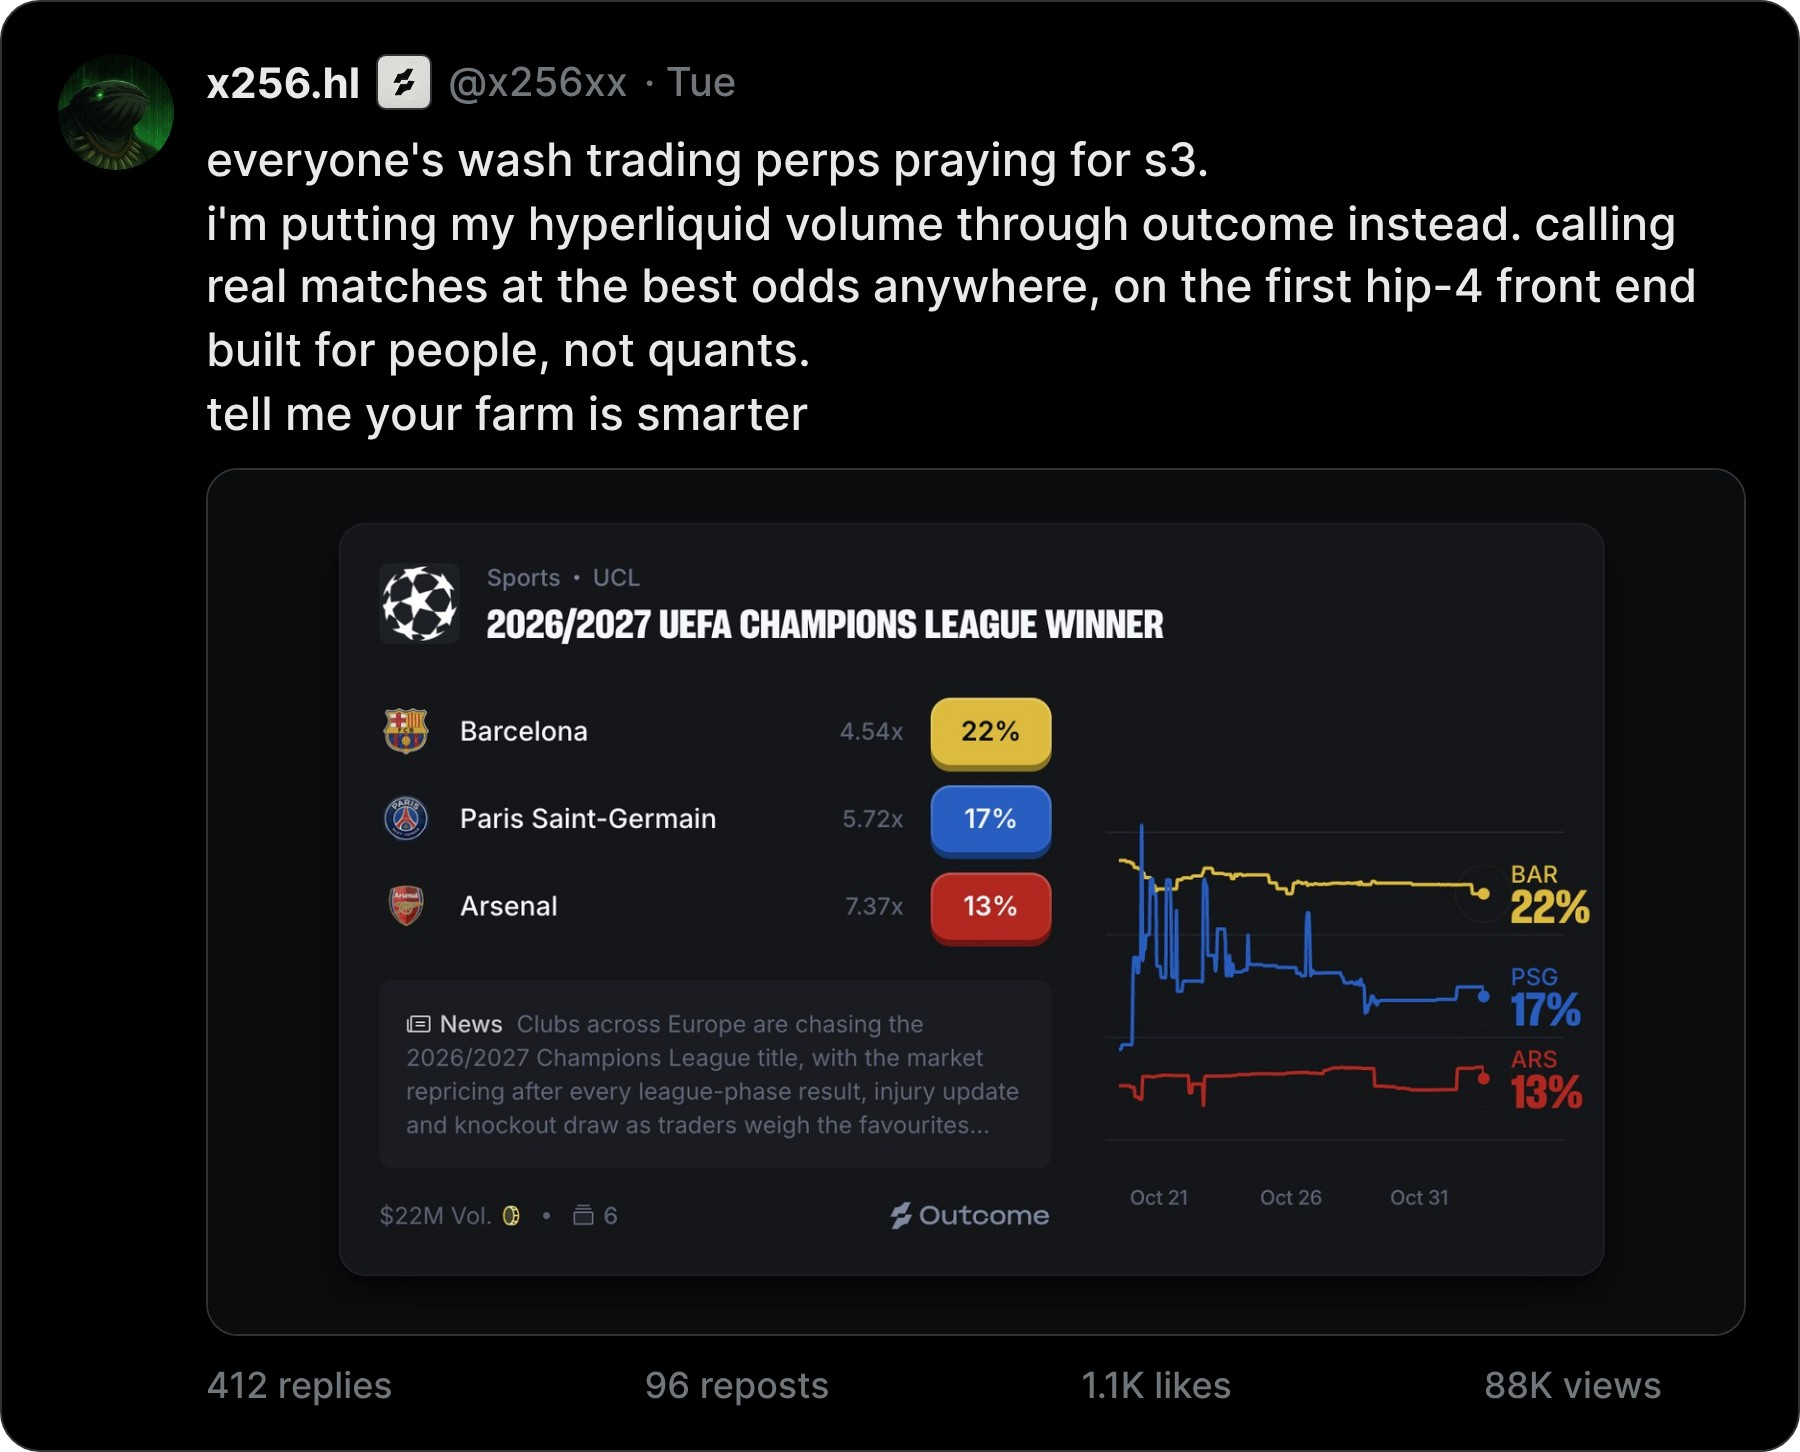
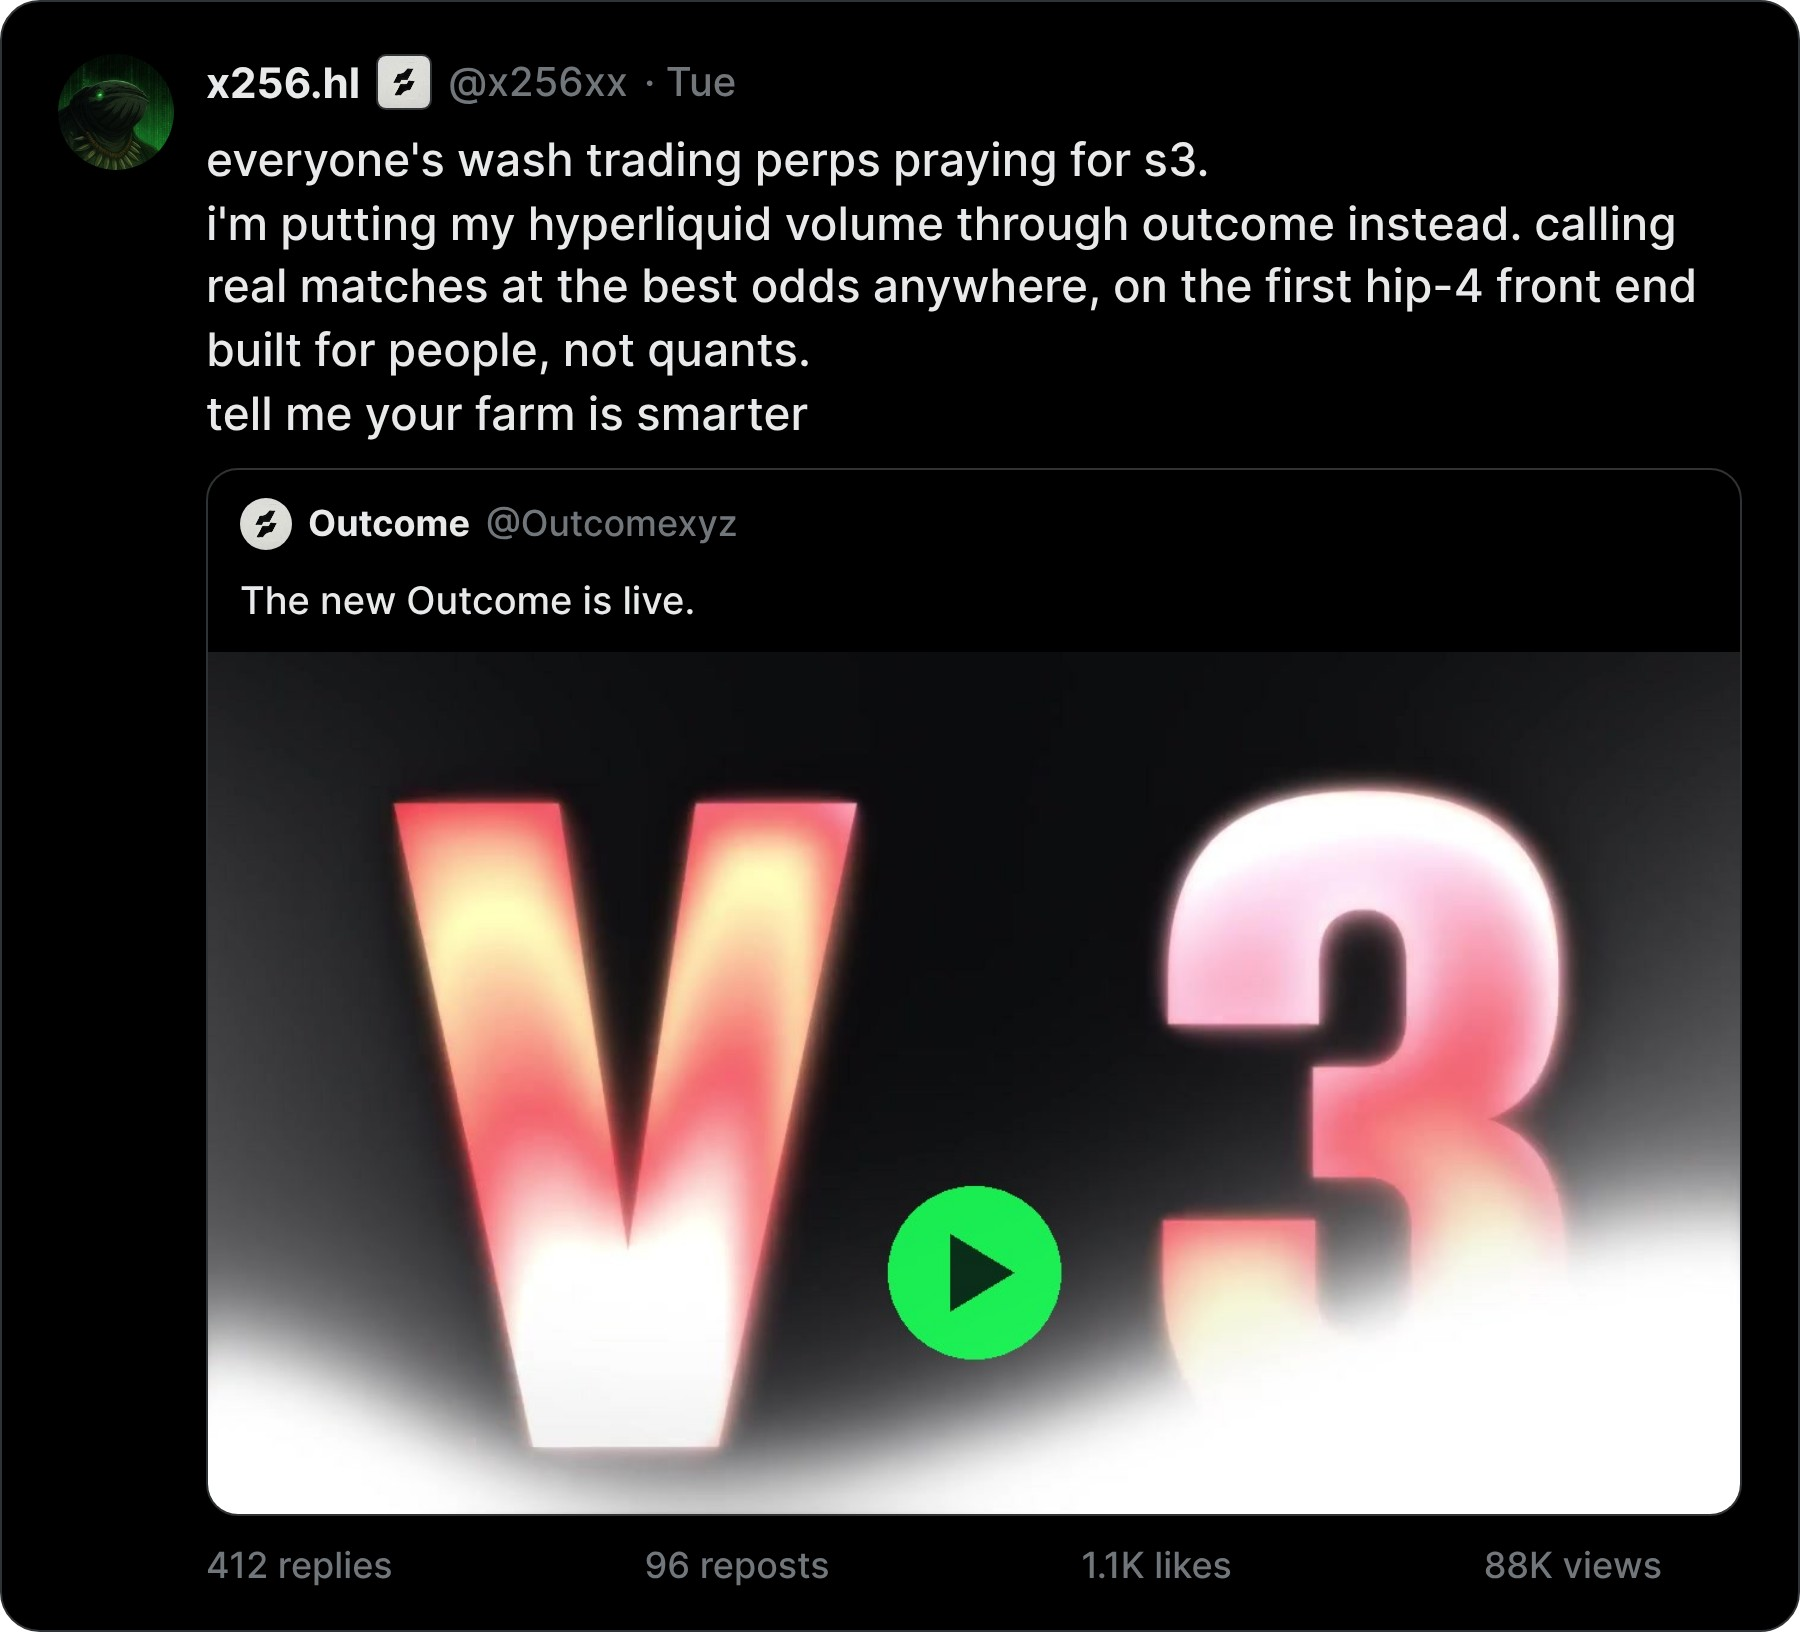
KOL decks: mock post quotes the launch video
Claude-Session: https://claude.ai/code/session_014PU9ujy91VW7m4JZPWrTgt

diff --git a/deck/cryptogorilla/index.html b/deck/cryptogorilla/index.html
@@ -178,7 +178,7 @@ section img[src$="wm.png"]{pointer-events:none}
 </section>
 </div>
 <div class="frame"><section id="say" style="background:#0B0C0F;color:#F5F8FF;font-family:Inter, Arial, sans-serif;padding:128px 128px 160px;display:flex;flex-direction:row;gap:72px;align-items:center">
-<img src="/deck/cryptogorilla/post_v3.jpg" alt="Mock post by Gorilla: everyone’s wash trading perps praying for s3, i’m putting my hyperliquid volume through outcome instead, best odds anywhere on the first hip-4 front end built for people, tell me your farm is smarter" style="width:680px;height:780px;object-fit:contain;border-radius:20px">
+<img src="/deck/cryptogorilla/post_v3.jpg" alt="Mock post by Gorilla quoting Outcome’s launch video post: everyone’s wash trading perps praying for s3, i’m putting my hyperliquid volume through outcome instead, best odds anywhere on the first hip-4 front end built for people, tell me your farm is smarter" style="width:680px;height:780px;object-fit:contain;border-radius:20px">
 <div style="flex:1;display:flex;flex-direction:column;gap:30px">
 <p style="font-size:26px;font-weight:600;letter-spacing:4px;color:#1AFF57">HOW IT SOUNDS</p>
 <h2 style="font-family:'PP Neue Corp Narrow', Impact, sans-serif;font-weight:800;line-height:0.88;text-transform:uppercase;color:#F5F8FF;font-size:104px">Start an argument.</h2>

diff --git a/deck/clementetv_/index.html b/deck/clementetv_/index.html
@@ -178,7 +178,7 @@ section img[src$="wm.png"]{pointer-events:none}
 </section>
 </div>
 <div class="frame"><section id="say" style="background:#0B0C0F;color:#F5F8FF;font-family:Inter, Arial, sans-serif;padding:128px 128px 160px;display:flex;flex-direction:row;gap:72px;align-items:center">
-<img src="/deck/clementetv_/post_v3.jpg" alt="Mock post by Clemente: everyone’s wash trading perps praying for s3, i’m putting my hyperliquid volume through outcome instead, best odds anywhere on the first hip-4 front end built for people, tell me your farm is smarter" style="width:680px;height:780px;object-fit:contain;border-radius:20px">
+<img src="/deck/clementetv_/post_v3.jpg" alt="Mock post by Clemente quoting Outcome’s launch video post: everyone’s wash trading perps praying for s3, i’m putting my hyperliquid volume through outcome instead, best odds anywhere on the first hip-4 front end built for people, tell me your farm is smarter" style="width:680px;height:780px;object-fit:contain;border-radius:20px">
 <div style="flex:1;display:flex;flex-direction:column;gap:30px">
 <p style="font-size:26px;font-weight:600;letter-spacing:4px;color:#1AFF57">HOW IT SOUNDS</p>
 <h2 style="font-family:'PP Neue Corp Narrow', Impact, sans-serif;font-weight:800;line-height:0.88;text-transform:uppercase;color:#F5F8FF;font-size:104px">Start an argument.</h2>

diff --git a/deck/kookcapitalllc/index.html b/deck/kookcapitalllc/index.html
@@ -178,7 +178,7 @@ section img[src$="wm.png"]{pointer-events:none}
 </section>
 </div>
 <div class="frame"><section id="say" style="background:#0B0C0F;color:#F5F8FF;font-family:Inter, Arial, sans-serif;padding:128px 128px 160px;display:flex;flex-direction:row;gap:72px;align-items:center">
-<img src="/deck/kookcapitalllc/post_v3.jpg" alt="Mock post by kook: everyone’s wash trading perps praying for s3, i’m putting my hyperliquid volume through outcome instead, best odds anywhere on the first hip-4 front end built for people, tell me your farm is smarter" style="width:680px;height:780px;object-fit:contain;border-radius:20px">
+<img src="/deck/kookcapitalllc/post_v3.jpg" alt="Mock post by kook quoting Outcome’s launch video post: everyone’s wash trading perps praying for s3, i’m putting my hyperliquid volume through outcome instead, best odds anywhere on the first hip-4 front end built for people, tell me your farm is smarter" style="width:680px;height:780px;object-fit:contain;border-radius:20px">
 <div style="flex:1;display:flex;flex-direction:column;gap:30px">
 <p style="font-size:26px;font-weight:600;letter-spacing:4px;color:#1AFF57">HOW IT SOUNDS</p>
 <h2 style="font-family:'PP Neue Corp Narrow', Impact, sans-serif;font-weight:800;line-height:0.88;text-transform:uppercase;color:#F5F8FF;font-size:104px">Start an argument.</h2>

diff --git a/deck/cookerflips/index.html b/deck/cookerflips/index.html
@@ -178,7 +178,7 @@ section img[src$="wm.png"]{pointer-events:none}
 </section>
 </div>
 <div class="frame"><section id="say" style="background:#0B0C0F;color:#F5F8FF;font-family:Inter, Arial, sans-serif;padding:128px 128px 160px;display:flex;flex-direction:row;gap:72px;align-items:center">
-<img src="/deck/cookerflips/post_v3.jpg" alt="Mock post by Cooker: everyone’s wash trading perps praying for s3, i’m putting my hyperliquid volume through outcome instead, best odds anywhere on the first hip-4 front end built for people, tell me your farm is smarter" style="width:680px;height:780px;object-fit:contain;border-radius:20px">
+<img src="/deck/cookerflips/post_v3.jpg" alt="Mock post by Cooker quoting Outcome’s launch video post: everyone’s wash trading perps praying for s3, i’m putting my hyperliquid volume through outcome instead, best odds anywhere on the first hip-4 front end built for people, tell me your farm is smarter" style="width:680px;height:780px;object-fit:contain;border-radius:20px">
 <div style="flex:1;display:flex;flex-direction:column;gap:30px">
 <p style="font-size:26px;font-weight:600;letter-spacing:4px;color:#1AFF57">HOW IT SOUNDS</p>
 <h2 style="font-family:'PP Neue Corp Narrow', Impact, sans-serif;font-weight:800;line-height:0.88;text-transform:uppercase;color:#F5F8FF;font-size:104px">Start an argument.</h2>

diff --git a/deck/hydraze420/index.html b/deck/hydraze420/index.html
@@ -178,7 +178,7 @@ section img[src$="wm.png"]{pointer-events:none}
 </section>
 </div>
 <div class="frame"><section id="say" style="background:#0B0C0F;color:#F5F8FF;font-family:Inter, Arial, sans-serif;padding:128px 128px 160px;display:flex;flex-direction:row;gap:72px;align-items:center">
-<img src="/deck/hydraze420/post_v3.jpg" alt="Mock post by Hydraze: everyone’s wash trading perps praying for s3, i’m putting my hyperliquid volume through outcome instead, best odds anywhere on the first hip-4 front end built for people, tell me your farm is smarter" style="width:680px;height:780px;object-fit:contain;border-radius:20px">
+<img src="/deck/hydraze420/post_v3.jpg" alt="Mock post by Hydraze quoting Outcome’s launch video post: everyone’s wash trading perps praying for s3, i’m putting my hyperliquid volume through outcome instead, best odds anywhere on the first hip-4 front end built for people, tell me your farm is smarter" style="width:680px;height:780px;object-fit:contain;border-radius:20px">
 <div style="flex:1;display:flex;flex-direction:column;gap:30px">
 <p style="font-size:26px;font-weight:600;letter-spacing:4px;color:#1AFF57">HOW IT SOUNDS</p>
 <h2 style="font-family:'PP Neue Corp Narrow', Impact, sans-serif;font-weight:800;line-height:0.88;text-transform:uppercase;color:#F5F8FF;font-size:104px">Start an argument.</h2>

diff --git a/deck/bagcalls/index.html b/deck/bagcalls/index.html
@@ -178,7 +178,7 @@ section img[src$="wm.png"]{pointer-events:none}
 </section>
 </div>
 <div class="frame"><section id="say" style="background:#0B0C0F;color:#F5F8FF;font-family:Inter, Arial, sans-serif;padding:128px 128px 160px;display:flex;flex-direction:row;gap:72px;align-items:center">
-<img src="/deck/bagcalls/post_v3.jpg" alt="Mock post by BagCalls: everyone’s wash trading perps praying for s3, i’m putting my hyperliquid volume through outcome instead, best odds anywhere on the first hip-4 front end built for people, tell me your farm is smarter" style="width:680px;height:780px;object-fit:contain;border-radius:20px">
+<img src="/deck/bagcalls/post_v3.jpg" alt="Mock post by BagCalls quoting Outcome’s launch video post: everyone’s wash trading perps praying for s3, i’m putting my hyperliquid volume through outcome instead, best odds anywhere on the first hip-4 front end built for people, tell me your farm is smarter" style="width:680px;height:780px;object-fit:contain;border-radius:20px">
 <div style="flex:1;display:flex;flex-direction:column;gap:30px">
 <p style="font-size:26px;font-weight:600;letter-spacing:4px;color:#1AFF57">HOW IT SOUNDS</p>
 <h2 style="font-family:'PP Neue Corp Narrow', Impact, sans-serif;font-weight:800;line-height:0.88;text-transform:uppercase;color:#F5F8FF;font-size:104px">Start an argument.</h2>

diff --git a/deck/piovincenzo_/index.html b/deck/piovincenzo_/index.html
@@ -178,7 +178,7 @@ section img[src$="wm.png"]{pointer-events:none}
 </section>
 </div>
 <div class="frame"><section id="say" style="background:#0B0C0F;color:#F5F8FF;font-family:Inter, Arial, sans-serif;padding:128px 128px 160px;display:flex;flex-direction:row;gap:72px;align-items:center">
-<img src="/deck/piovincenzo_/post_v3.jpg" alt="Mock post by Pio: everyone’s wash trading perps praying for s3, i’m putting my hyperliquid volume through outcome instead, best odds anywhere on the first hip-4 front end built for people, tell me your farm is smarter" style="width:680px;height:780px;object-fit:contain;border-radius:20px">
+<img src="/deck/piovincenzo_/post_v3.jpg" alt="Mock post by Pio quoting Outcome’s launch video post: everyone’s wash trading perps praying for s3, i’m putting my hyperliquid volume through outcome instead, best odds anywhere on the first hip-4 front end built for people, tell me your farm is smarter" style="width:680px;height:780px;object-fit:contain;border-radius:20px">
 <div style="flex:1;display:flex;flex-direction:column;gap:30px">
 <p style="font-size:26px;font-weight:600;letter-spacing:4px;color:#1AFF57">HOW IT SOUNDS</p>
 <h2 style="font-family:'PP Neue Corp Narrow', Impact, sans-serif;font-weight:800;line-height:0.88;text-transform:uppercase;color:#F5F8FF;font-size:104px">Start an argument.</h2>

diff --git a/deck/ryandcrypto/index.html b/deck/ryandcrypto/index.html
@@ -178,7 +178,7 @@ section img[src$="wm.png"]{pointer-events:none}
 </section>
 </div>
 <div class="frame"><section id="say" style="background:#0B0C0F;color:#F5F8FF;font-family:Inter, Arial, sans-serif;padding:128px 128px 160px;display:flex;flex-direction:row;gap:72px;align-items:center">
-<img src="/deck/ryandcrypto/post_v3.jpg" alt="Mock post by Ryan: everyone’s wash trading perps praying for s3, i’m putting my hyperliquid volume through outcome instead, best odds anywhere on the first hip-4 front end built for people, tell me your farm is smarter" style="width:680px;height:780px;object-fit:contain;border-radius:20px">
+<img src="/deck/ryandcrypto/post_v3.jpg" alt="Mock post by Ryan quoting Outcome’s launch video post: everyone’s wash trading perps praying for s3, i’m putting my hyperliquid volume through outcome instead, best odds anywhere on the first hip-4 front end built for people, tell me your farm is smarter" style="width:680px;height:780px;object-fit:contain;border-radius:20px">
 <div style="flex:1;display:flex;flex-direction:column;gap:30px">
 <p style="font-size:26px;font-weight:600;letter-spacing:4px;color:#1AFF57">HOW IT SOUNDS</p>
 <h2 style="font-family:'PP Neue Corp Narrow', Impact, sans-serif;font-weight:800;line-height:0.88;text-transform:uppercase;color:#F5F8FF;font-size:104px">Start an argument.</h2>

diff --git a/deck/chartfu/index.html b/deck/chartfu/index.html
@@ -178,7 +178,7 @@ section img[src$="wm.png"]{pointer-events:none}
 </section>
 </div>
 <div class="frame"><section id="say" style="background:#0B0C0F;color:#F5F8FF;font-family:Inter, Arial, sans-serif;padding:128px 128px 160px;display:flex;flex-direction:row;gap:72px;align-items:center">
-<img src="/deck/chartfu/post_v3.jpg" alt="Mock post by ChartFu: everyone’s wash trading perps praying for s3, i’m putting my hyperliquid volume through outcome instead, best odds anywhere on the first hip-4 front end built for people, tell me your farm is smarter" style="width:680px;height:780px;object-fit:contain;border-radius:20px">
+<img src="/deck/chartfu/post_v3.jpg" alt="Mock post by ChartFu quoting Outcome’s launch video post: everyone’s wash trading perps praying for s3, i’m putting my hyperliquid volume through outcome instead, best odds anywhere on the first hip-4 front end built for people, tell me your farm is smarter" style="width:680px;height:780px;object-fit:contain;border-radius:20px">
 <div style="flex:1;display:flex;flex-direction:column;gap:30px">
 <p style="font-size:26px;font-weight:600;letter-spacing:4px;color:#1AFF57">HOW IT SOUNDS</p>
 <h2 style="font-family:'PP Neue Corp Narrow', Impact, sans-serif;font-weight:800;line-height:0.88;text-transform:uppercase;color:#F5F8FF;font-size:104px">Start an argument.</h2>

diff --git a/deck/j777crypto/index.html b/deck/j777crypto/index.html
@@ -178,7 +178,7 @@ section img[src$="wm.png"]{pointer-events:none}
 </section>
 </div>
 <div class="frame"><section id="say" style="background:#0B0C0F;color:#F5F8FF;font-family:Inter, Arial, sans-serif;padding:128px 128px 160px;display:flex;flex-direction:row;gap:72px;align-items:center">
-<img src="/deck/j777crypto/post_v3.jpg" alt="Mock post by J777: everyone’s wash trading perps praying for s3, i’m putting my hyperliquid volume through outcome instead, best odds anywhere on the first hip-4 front end built for people, tell me your farm is smarter" style="width:680px;height:780px;object-fit:contain;border-radius:20px">
+<img src="/deck/j777crypto/post_v3.jpg" alt="Mock post by J777 quoting Outcome’s launch video post: everyone’s wash trading perps praying for s3, i’m putting my hyperliquid volume through outcome instead, best odds anywhere on the first hip-4 front end built for people, tell me your farm is smarter" style="width:680px;height:780px;object-fit:contain;border-radius:20px">
 <div style="flex:1;display:flex;flex-direction:column;gap:30px">
 <p style="font-size:26px;font-weight:600;letter-spacing:4px;color:#1AFF57">HOW IT SOUNDS</p>
 <h2 style="font-family:'PP Neue Corp Narrow', Impact, sans-serif;font-weight:800;line-height:0.88;text-transform:uppercase;color:#F5F8FF;font-size:104px">Start an argument.</h2>

diff --git a/deck/bandosei/index.html b/deck/bandosei/index.html
@@ -178,7 +178,7 @@ section img[src$="wm.png"]{pointer-events:none}
 </section>
 </div>
 <div class="frame"><section id="say" style="background:#0B0C0F;color:#F5F8FF;font-family:Inter, Arial, sans-serif;padding:128px 128px 160px;display:flex;flex-direction:row;gap:72px;align-items:center">
-<img src="/deck/bandosei/post_v3.jpg" alt="Mock post by Bando: everyone’s wash trading perps praying for s3, i’m putting my hyperliquid volume through outcome instead, best odds anywhere on the first hip-4 front end built for people, tell me your farm is smarter" style="width:680px;height:780px;object-fit:contain;border-radius:20px">
+<img src="/deck/bandosei/post_v3.jpg" alt="Mock post by Bando quoting Outcome’s launch video post: everyone’s wash trading perps praying for s3, i’m putting my hyperliquid volume through outcome instead, best odds anywhere on the first hip-4 front end built for people, tell me your farm is smarter" style="width:680px;height:780px;object-fit:contain;border-radius:20px">
 <div style="flex:1;display:flex;flex-direction:column;gap:30px">
 <p style="font-size:26px;font-weight:600;letter-spacing:4px;color:#1AFF57">HOW IT SOUNDS</p>
 <h2 style="font-family:'PP Neue Corp Narrow', Impact, sans-serif;font-weight:800;line-height:0.88;text-transform:uppercase;color:#F5F8FF;font-size:104px">Start an argument.</h2>

diff --git a/deck/x256xx/index.html b/deck/x256xx/index.html
@@ -178,7 +178,7 @@ section img[src$="wm.png"]{pointer-events:none}
 </section>
 </div>
 <div class="frame"><section id="say" style="background:#0B0C0F;color:#F5F8FF;font-family:Inter, Arial, sans-serif;padding:128px 128px 160px;display:flex;flex-direction:row;gap:72px;align-items:center">
-<img src="/deck/x256xx/post_v3.jpg" alt="Mock post by x256: everyone’s wash trading perps praying for s3, i’m putting my hyperliquid volume through outcome instead, best odds anywhere on the first hip-4 front end built for people, tell me your farm is smarter" style="width:680px;height:780px;object-fit:contain;border-radius:20px">
+<img src="/deck/x256xx/post_v3.jpg" alt="Mock post by x256 quoting Outcome’s launch video post: everyone’s wash trading perps praying for s3, i’m putting my hyperliquid volume through outcome instead, best odds anywhere on the first hip-4 front end built for people, tell me your farm is smarter" style="width:680px;height:780px;object-fit:contain;border-radius:20px">
 <div style="flex:1;display:flex;flex-direction:column;gap:30px">
 <p style="font-size:26px;font-weight:600;letter-spacing:4px;color:#1AFF57">HOW IT SOUNDS</p>
 <h2 style="font-family:'PP Neue Corp Narrow', Impact, sans-serif;font-weight:800;line-height:0.88;text-transform:uppercase;color:#F5F8FF;font-size:104px">Start an argument.</h2>
